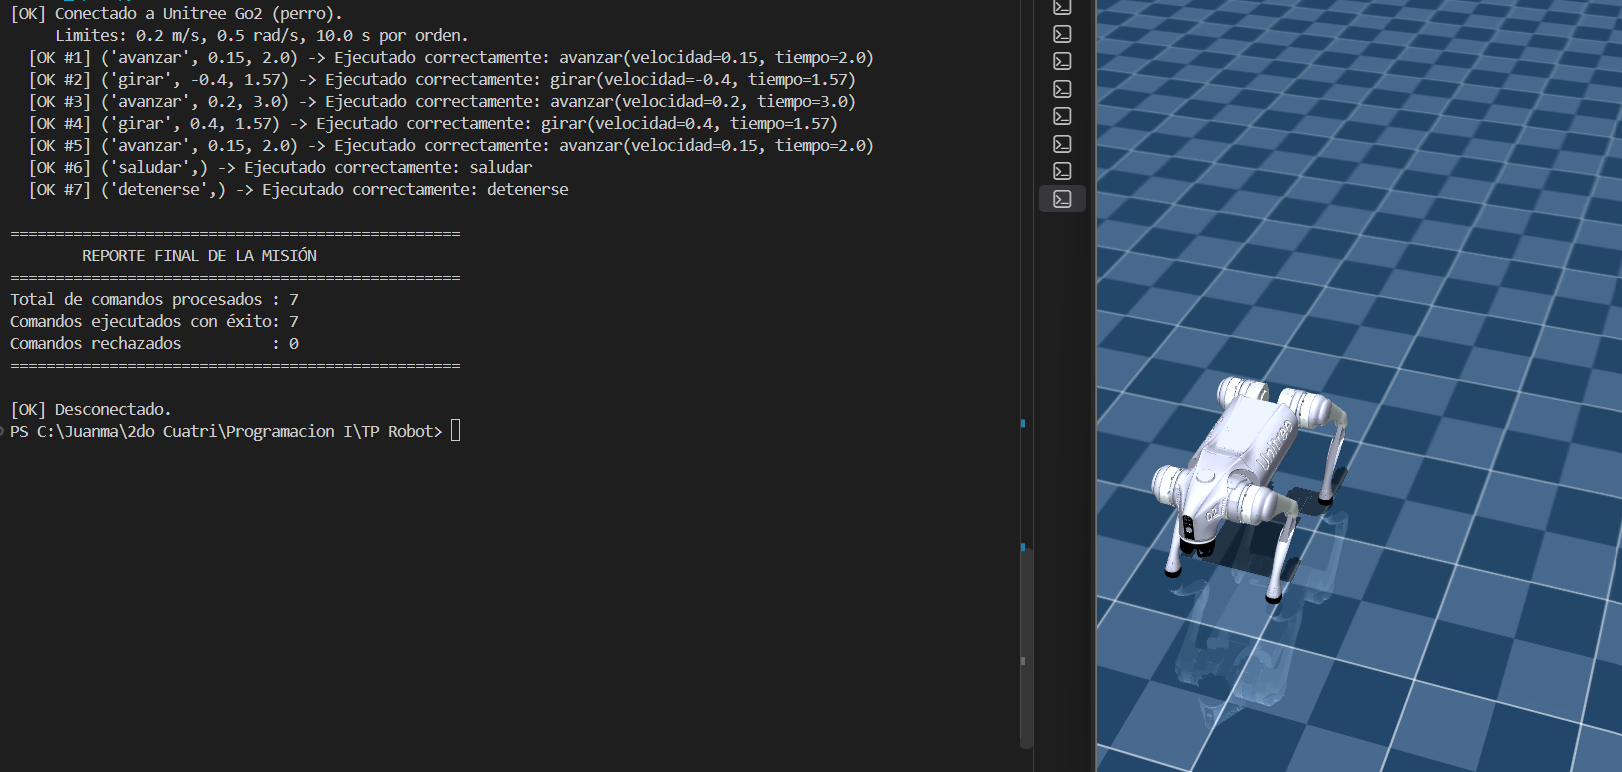
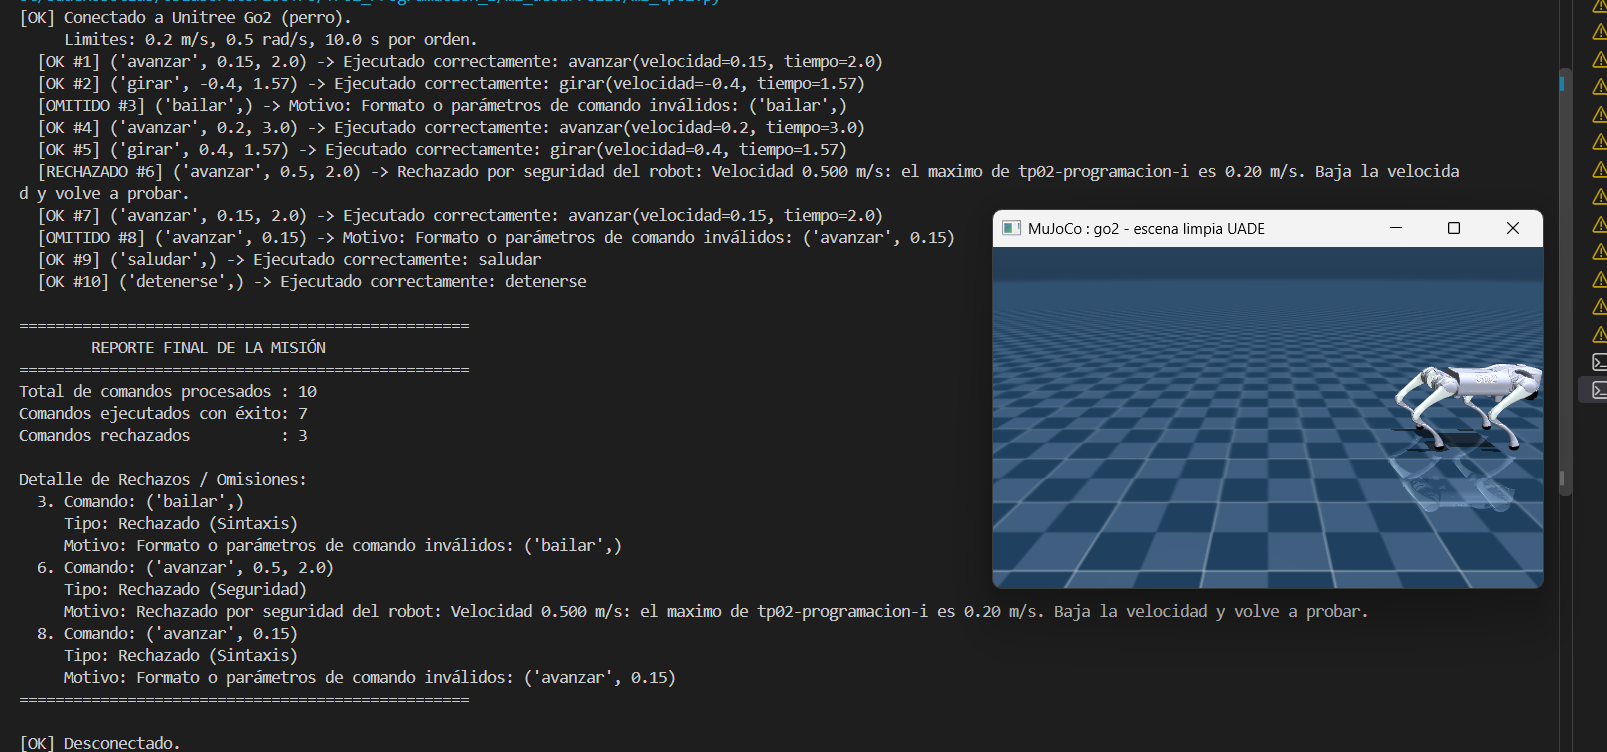
Actualizo bitácora, agrego esquema Top-Down e informe

diff --git a/BITACORA.md b/BITACORA.md
@@ -174,22 +174,26 @@ Python 3.14.4, pip 26.0.1 y Git 2.55.0 ya estaban disponibles; el IDE es Visual 
 
 ## Etapa 9: MISION_PROPIA
 
-**Misión:** `MISION_PROPIA` (7 comandos), diseñada por mí:
+**Misión:** `MISION_PROPIA` (10 comandos), diseñada por nosotros. Es un zigzag con desvío lateral que incluye 3 comandos inválidos a propósito:
 
-| # | Comando | Efecto |
-|---|---|---|
-| 1 | `avanzar(0.15, 2.0)` | avanza 0.30 m |
-| 2 | `girar(-0.4, 1.57)` | gira ≈ 0.63 rad (36°) a la derecha |
-| 3 | `avanzar(0.20, 3.0)` | avanza 0.60 m |
-| 4 | `girar(0.4, 1.57)` | gira ≈ 36° a la izquierda (recupera el rumbo original) |
-| 5 | `avanzar(0.15, 2.0)` | avanza 0.30 m |
-| 6 | `saludar` | saluda |
-| 7 | `detenerse` | frena |
+| # | Comando | Tipo | Efecto esperado |
+|---|---|---|---|
+| 1 | `avanzar(0.15, 2.0)` | válido | avanza 0.30 m |
+| 2 | `girar(-0.4, 1.57)` | válido | gira ≈ 36° a la derecha |
+| 3 | `("bailar",)` | **inválido** | rechazado por sintaxis: comando inexistente |
+| 4 | `avanzar(0.20, 3.0)` | válido | avanza 0.60 m |
+| 5 | `girar(0.4, 1.57)` | válido | gira ≈ 36° a la izquierda (recupera el rumbo) |
+| 6 | `avanzar(0.5, 2.0)` | **inválido** | rechazado por seguridad: supera 0.20 m/s |
+| 7 | `avanzar(0.15, 2.0)` | válido | avanza 0.30 m |
+| 8 | `("avanzar", 0.15)` | **inválido** | rechazado por sintaxis: falta el tiempo |
+| 9 | `saludar` | válido | saluda |
+| 10 | `detenerse` | válido | frena |
 
-**Diseño:** un zigzag con desvío lateral: el robot se aparta del rumbo original hacia la derecha, avanza el tramo más largo, vuelve a enderezarse y termina avanzando y saludando. Todos los valores respetan los límites (≤ 0.2 m/s, ≤ 0.5 rad/s, ≤ 10 s).
+**Diseño:** el robot se aparta del rumbo original hacia la derecha, avanza el tramo más largo, se endereza y termina avanzando y saludando. Los comandos válidos respetan los límites (≤ 0.2 m/s, ≤ 0.5 rad/s, ≤ 10 s). Los inválidos cubren los dos tipos de rechazo: validación previa y `ErrorDeSeguridad`.
 
-**Resultado:** 7 ejecutados, 0 rechazados. Reporte final generado.
+**Resultado (COMPLETAR con lo que muestre la captura):** 7 ejecutados, 3 rechazados. Reporte final generado.
 
 **Observación:** en la ventana, el Go2 quedó desplazado respecto de su posición inicial. No se midió la distancia exacta.
 
 **Evidencia:** `evidencias/06_misiones/04_mision_propia.png`
+

diff --git a/README.md b/README.md
@@ -19,4 +19,4 @@
 | MISION_BASICA | 4 | 4 | 0 |
 | MISION_CON_ERRORES | 11 | 4 | 7 |
 | MISION_CUADRADO | 9 | 9 | 0 |
-| MISION_PROPIA | 7 | 7 | 0 |
+| MISION_PROPIA | 10 | 7 | 3 |
